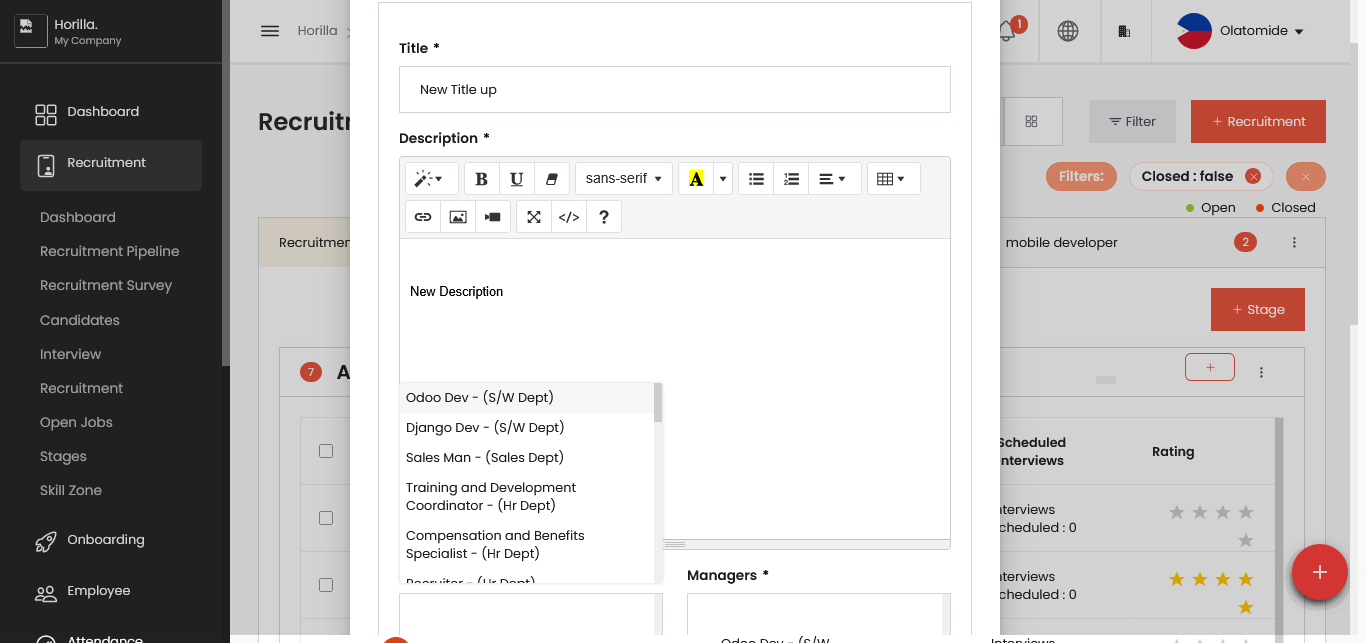
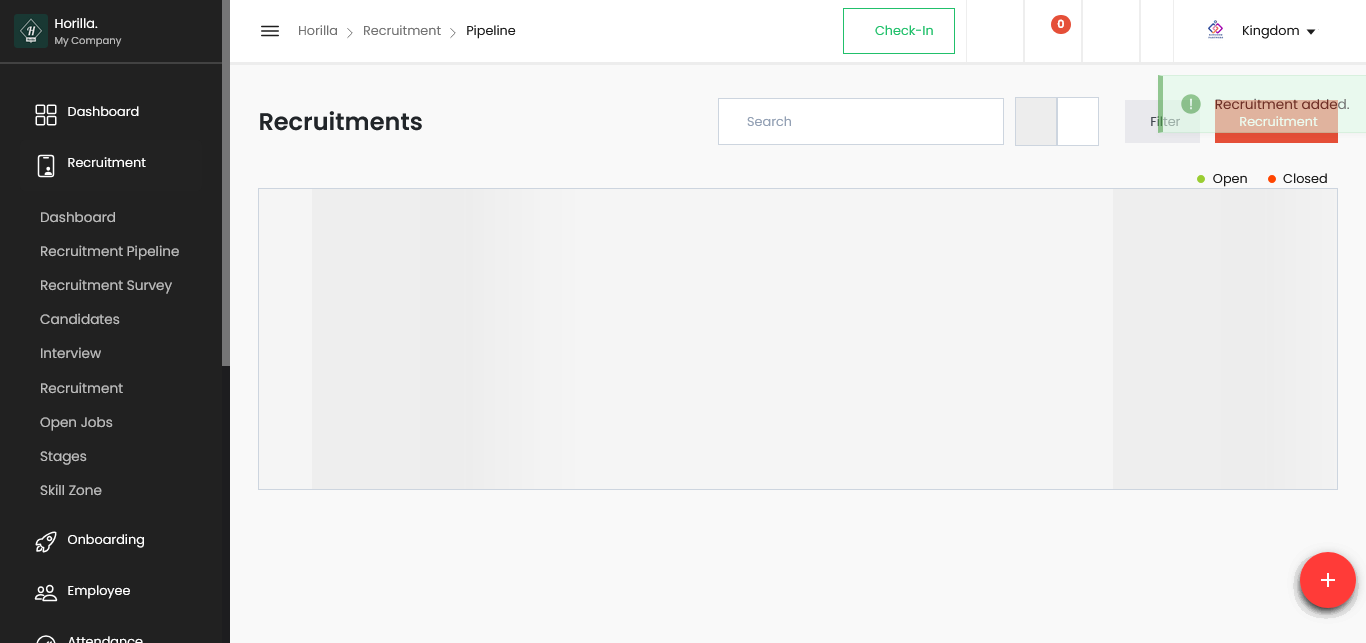
Your commit message here

diff --git a/reports/index.html b/reports/index.html
@@ -35,7 +35,7 @@
 <a href="#"><span class="badge badge-primary">WebAutomationResults</span></a>
 </li>
 <li class="m-r-10">
-<a href="#"><span class="badge badge-primary">Nov 3, 2025 09:41:45 am</span></a>
+<a href="#"><span class="badge badge-primary">Nov 14, 2025 03:47:45 pm</span></a>
 </li>
 </ul>
 </div>
@@ -79,9 +79,9 @@
           tag=""
           device="">
           <div class="test-detail">
-            <p class="name">loginHorilla</p>
+            <p class="name">LeaveSubmission</p>
             <p class="text-sm">
-              <span>9:41:50 am</span> / <span>00:00:06:847</span>
+              <span>3:47:50 pm</span> / <span>00:00:20:501</span>
               <span class="badge pass-bg log float-right">Pass</span>
             </p>
           </div>
@@ -89,10 +89,10 @@
 <div class="detail-head">
 <div class="p-v-10">
 <div class="info">
-<h5 class="test-status text-pass">loginHorilla</h5>
-<span class='badge badge-success'>11.03.2025 9:41:50 am</span>
-<span class='badge badge-danger'>11.03.2025 9:41:57 am</span>
-<span class='badge badge-default'>00:00:06:847</span>
+<h5 class="test-status text-pass">LeaveSubmission</h5>
+<span class='badge badge-success'>11.14.2025 3:47:50 pm</span>
+<span class='badge badge-danger'>11.14.2025 3:48:11 pm</span>
+<span class='badge badge-default'>00:00:20:501</span>
 &middot; <span class='uri-anchor badge badge-default'>#test-id=1</span>
 <span title='Skip to the next failed step' class='badge badge-danger pointer float-right ne ml-1'><i class="fa fa-fast-forward"></i></span>
 <span title='Collapse all nodes' class='badge badge-default pointer float-right ct ml-1'><i class="fa fa-compress"></i></span>
@@ -105,48 +105,7 @@
   <tbody>
       <tr class="event-row">
         <td><span class="badge log pass-bg">Pass</span></td>
-        <td>9:41:57 am</td>
-        <td>
-          Test Passed
-        </td>
-      </tr>
-  </tbody>
-</table>
-</div>
-          </div>
-        </li>
-        <li class="test-item"  status="pass" test-id="2"
-          author=""
-          tag=""
-          device="">
-          <div class="test-detail">
-            <p class="name">Recruitments</p>
-            <p class="text-sm">
-              <span>9:42:01 am</span> / <span>00:00:13:827</span>
-              <span class="badge pass-bg log float-right">Pass</span>
-            </p>
-          </div>
-          <div class="test-contents d-none">
-<div class="detail-head">
-<div class="p-v-10">
-<div class="info">
-<h5 class="test-status text-pass">Recruitments</h5>
-<span class='badge badge-success'>11.03.2025 9:42:01 am</span>
-<span class='badge badge-danger'>11.03.2025 9:42:14 am</span>
-<span class='badge badge-default'>00:00:13:827</span>
-&middot; <span class='uri-anchor badge badge-default'>#test-id=2</span>
-<span title='Skip to the next failed step' class='badge badge-danger pointer float-right ne ml-1'><i class="fa fa-fast-forward"></i></span>
-<span title='Collapse all nodes' class='badge badge-default pointer float-right ct ml-1'><i class="fa fa-compress"></i></span>
-<span title='Expand all nodes' class='badge badge-default pointer float-right et'><i class="fa fa-expand"></i></span>
-</div>
-</div>
-</div><div class="detail-body mt-4">
-<table class="table table-sm">
-  <thead><tr><th class="status-col">Status</th><th class="timestamp-col">Timestamp</th><th class="details-col">Details</th></tr></thead>
-  <tbody>
-      <tr class="event-row">
-        <td><span class="badge log pass-bg">Pass</span></td>
-        <td>9:42:14 am</td>
+        <td>3:48:11 pm</td>
         <td>
           Test Passed
         </td>
@@ -170,19 +129,19 @@
 <div class="col-md-3">
 <div class="card"><div class="card-body">
 <p class="m-b-0">Started</p>
-<h3>Nov 3, 2025 09:41:45 am</h3>
+<h3>Nov 14, 2025 03:47:45 pm</h3>
 </div></div>
 </div>
 <div class="col-md-3">
 <div class="card"><div class="card-body">
 <p class="m-b-0">Ended</p>
-<h3>Nov 3, 2025 09:42:14 am</h3>
+<h3>Nov 14, 2025 03:48:11 pm</h3>
 </div></div>
 </div>
 <div class="col-md-3">
 <div class="card"><div class="card-body">
 <p class="m-b-0 text-pass">Tests Passed</p>
-<h3>2</h3>
+<h3>1</h3>
 </div></div>
 </div>
 <div class="col-md-3">
@@ -205,7 +164,7 @@
 </div>
 <div class="card-footer">
 <div><small data-tooltip='100%'>
-<b>2</b> tests passed
+<b>1</b> tests passed
 </small>
 </div>
 <div>
@@ -227,7 +186,7 @@
 </div>
 </div>
 <div class="card-footer">
-<div><small data-tooltip='100%'><b>2</b> events passed</small></div>
+<div><small data-tooltip='100%'><b>1</b> events passed</small></div>
 <div>
 <small data-tooltip='0%'><b>0</b> events failed,
 <b data-tooltip='%'>0</b> others
@@ -246,7 +205,7 @@
 </div></div>
 <script>
 var timeline = {
-"loginHorilla":6.847,"Recruitments":13.827
+"LeaveSubmission":20.501
 };
 </script>
 <div class="row">
@@ -269,7 +228,7 @@ var timeline = {
 <script>
 var statusGroup = {
 parentCount: 5,
-passParent: 2,
+passParent: 1,
 failParent: 0,
 warningParent: 0,
 skipParent: 0,
@@ -286,7 +245,7 @@ warningGrandChild: 0,
 skipGrandChild: 0,
 infoGrandChild: 0,
 eventsCount: 5,
-passEvents: 2,
+passEvents: 1,
 failEvents: 0,
 warningEvents: 0,
 skipEvents: 0,

diff --git a/src/main/java/horilla/pageObjects/Leave.java b/src/main/java/horilla/pageObjects/Leave.java
@@ -1,0 +1,89 @@
+package horilla.pageObjects;
+
+import horilla.abstracts.AbstractComponents;
+import org.openqa.selenium.WebDriver;
+import org.openqa.selenium.WebElement;
+import org.openqa.selenium.support.FindBy;
+import org.openqa.selenium.support.PageFactory;
+import org.openqa.selenium.support.ui.ExpectedConditions;
+import org.openqa.selenium.support.ui.WebDriverWait;
+
+import java.time.Duration;
+import java.util.List;
+
+public class Leave extends AbstractComponents {
+    WebDriver driver;
+    WebDriverWait wait;
+    public Leave(WebDriver driver){
+        super(driver);
+        this.driver=driver;
+        PageFactory.initElements(driver,this);
+        wait=new WebDriverWait(driver, Duration.ofSeconds(10));
+    }
+    @FindBy (xpath = "//img[@src=\"/static/images/ui/leave.svg\"]")
+    WebElement leaveTab;
+    @FindBy(xpath = "//a[@href=\"/leave/request-view/\"]")
+    WebElement leaveRequest;
+    @FindBy(xpath = "//button[@id=\"requestCreateButton\"]")
+    WebElement leaveButton;
+    @FindBy(xpath = "//span[@id=\"select2-id_leave_type_id-container\"]")
+    WebElement leaveType;
+
+    @FindBy(xpath = "//span[@id=\"select2-id_employee_id-container\"]")
+    WebElement employee;
+    @FindBy(xpath="//li[contains(text(), '(PEP00)')]")
+    WebElement employeeSelect;
+    @FindBy(xpath="//li[contains(text(), 'Maternity Leave')]")
+    WebElement maternityLeave;
+
+    @FindBy(xpath = "//*[@name=\"description\"]")
+    WebElement description;
+    @FindBy(xpath = "//*[@id=\"buttonID\"]")
+    WebElement saveButton;
+    // Popup title
+    @FindBy(css = "h2#swal2-title")
+    List<WebElement> popupTitle;  // use List to safely check existence
+
+    // Confirm button
+    @FindBy(xpath = "//div[@class='swal2-actions']/button[contains(text(),'Confirm')]")
+    WebElement confirmButton;
+
+    public void leaveApplication()  {
+        wait.until(ExpectedConditions.elementToBeClickable(leaveTab));
+        leaveTab.click();
+        leaveRequest.click();
+        leaveButton.click();
+        wait.until(ExpectedConditions.elementToBeClickable(employee));
+        employee.click();
+        employeeSelect.click();
+        leaveType.click();
+        maternityLeave.click();
+        description.sendKeys("Maternity leave");
+        saveButton.click();
+        wait.until(ExpectedConditions.elementToBeClickable(confirmButton));
+
+        if(!popupTitle.isEmpty()){
+            try{
+
+                confirmButton.click();
+                //wait.until(ExpectedConditions.elementToBeClickable(confirmButton)).click();
+            }catch (Exception ignored){
+
+            }
+        }
+
+
+    }
+
+
+
+
+
+    
+
+
+
+
+
+
+}

diff --git a/src/test/java/horilla/TestObjects/BaseTest.java b/src/test/java/horilla/TestObjects/BaseTest.java
@@ -1,6 +1,7 @@
 package horilla.TestObjects;
 
 import horilla.abstracts.AbstractComponents;
+import horilla.pageObjects.Leave;
 import horilla.pageObjects.LoginPage;
 import horilla.pageObjects.Recruitment;
 import org.apache.commons.io.FileUtils;
@@ -14,7 +15,6 @@ import org.testng.annotations.BeforeMethod;
 
 import java.io.File;
 import java.io.FileInputStream;
-import java.io.FileNotFoundException;
 import java.io.IOException;
 import java.util.Properties;
 
@@ -24,6 +24,7 @@ public class BaseTest {
     public LoginPage loginPage;
     public AbstractComponents abstractComponents;
     public Recruitment recruitment;
+    public Leave leave;
 
     public WebDriver initializeDriver() throws IOException {
 

diff --git a/src/test/java/horilla/tests/LeaveWorkflow.java b/src/test/java/horilla/tests/LeaveWorkflow.java
@@ -1,0 +1,21 @@
+package horilla.tests;
+
+import horilla.TestObjects.BaseTest;
+import horilla.pageObjects.Leave;
+import org.openqa.selenium.support.ui.WebDriverWait;
+import org.testng.annotations.Test;
+
+import java.time.Duration;
+
+public class LeaveWorkflow extends BaseTest {
+    @Test
+    public void LeaveSubmission() {
+        WebDriverWait wait = new WebDriverWait(driver, Duration.ofSeconds(10));
+        leave=new Leave(driver);
+        loginPage.loginApplication();
+        leave.leaveApplication();
+
+    }
+
+
+}

diff --git a/src/test/java/horilla/tests/NewRecruitment.java b/src/test/java/horilla/tests/NewRecruitment.java
@@ -21,7 +21,7 @@ public class NewRecruitment extends BaseTest {
     loginPage.loginApplication();
     String toastMessage= recruitment.recruitmentAdd();
 
-    Assert.assertEquals(toastMessage,"Recruitment added.");
+    Assert.assertEquals(toastMessage,"Test Recruitment added.");
 
 }
 @Test
